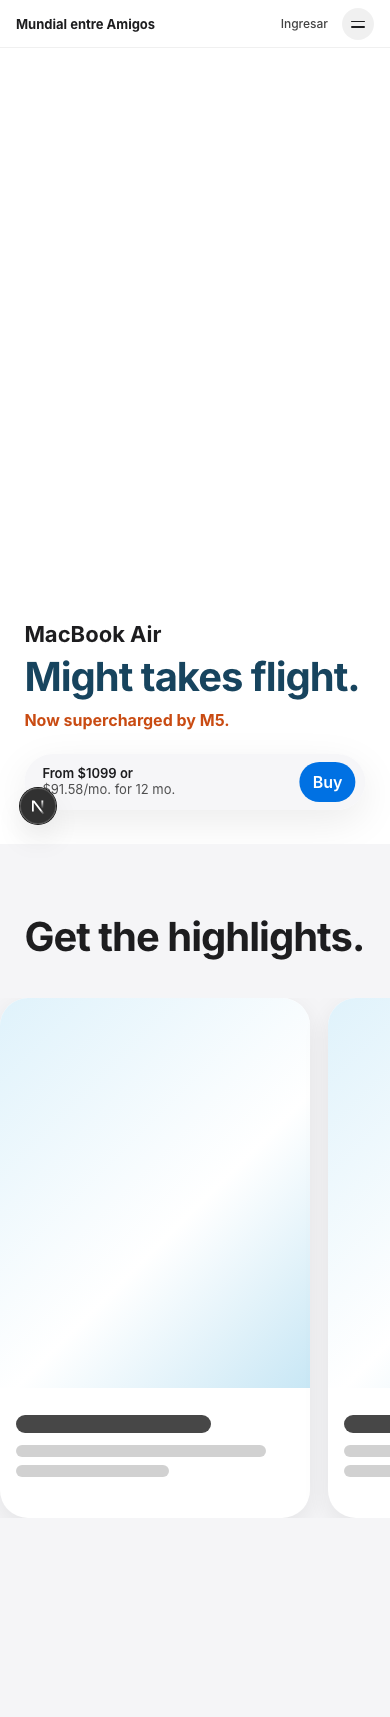
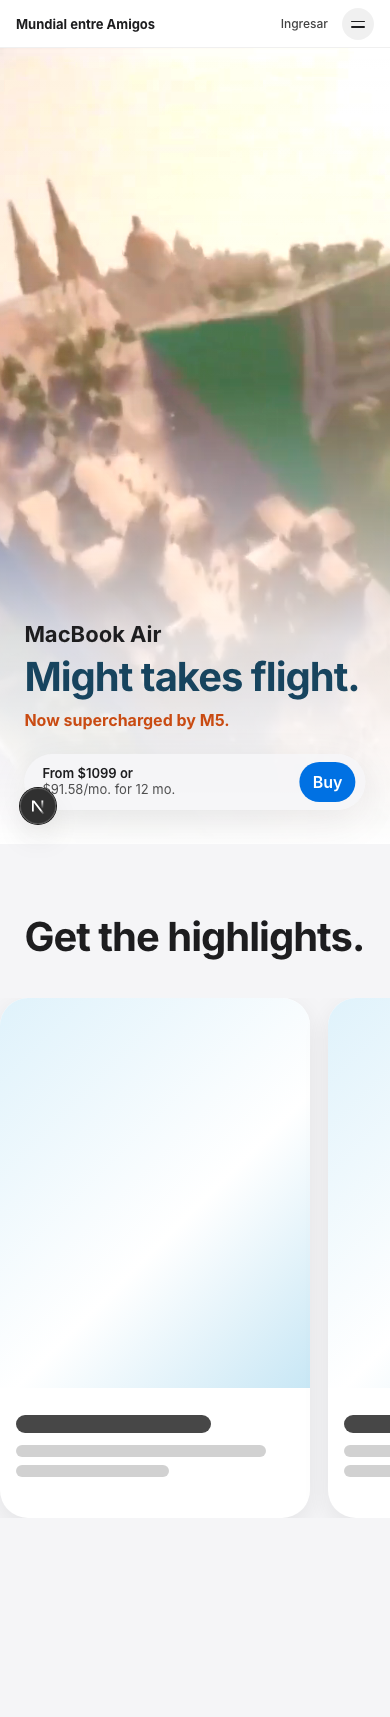
Update hero background video to World Cup 2026 Intro

Changed region(s): [[0.0, 0.0309, 1.0, 0.4321]]

diff --git a/layout-analysis/apple-replica/reports/visual-check.md b/layout-analysis/apple-replica/reports/visual-check.md
@@ -1,6 +1,6 @@
-# Visual Check Report - MacBook Air Exact Layout Replica (Full-Screen Hero with Real Nav Menu)
+# Visual Check Report - FIFA World Cup 2026 Official Intro Hero
 
-This report documents the exact DOM measurements of the built layout replica with the simplified edge-to-edge full-screen height video background layout.
+This report documents the exact DOM measurements of the built layout replica with the official FIFA World Cup 2026 Intro background video.
 
 ## DOM Measurements
 